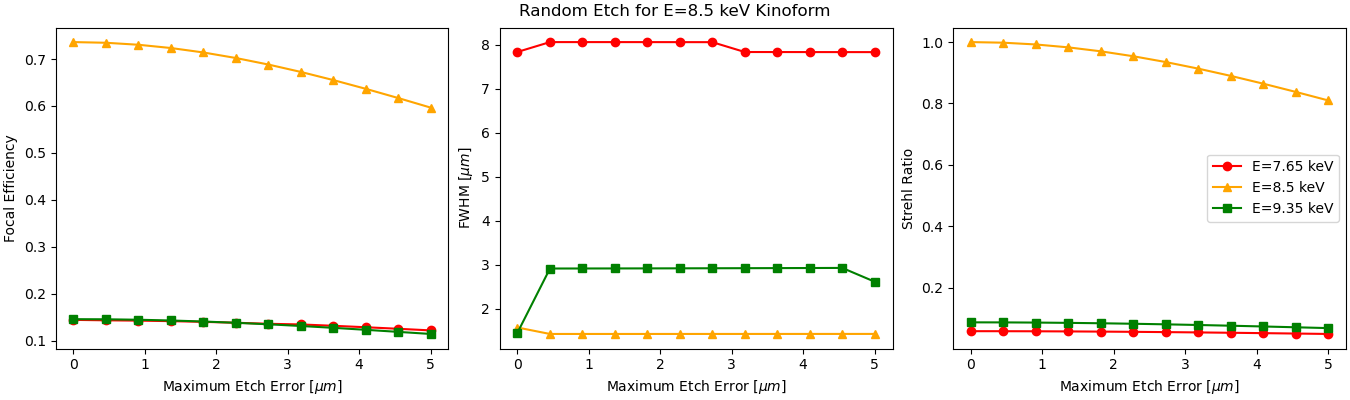
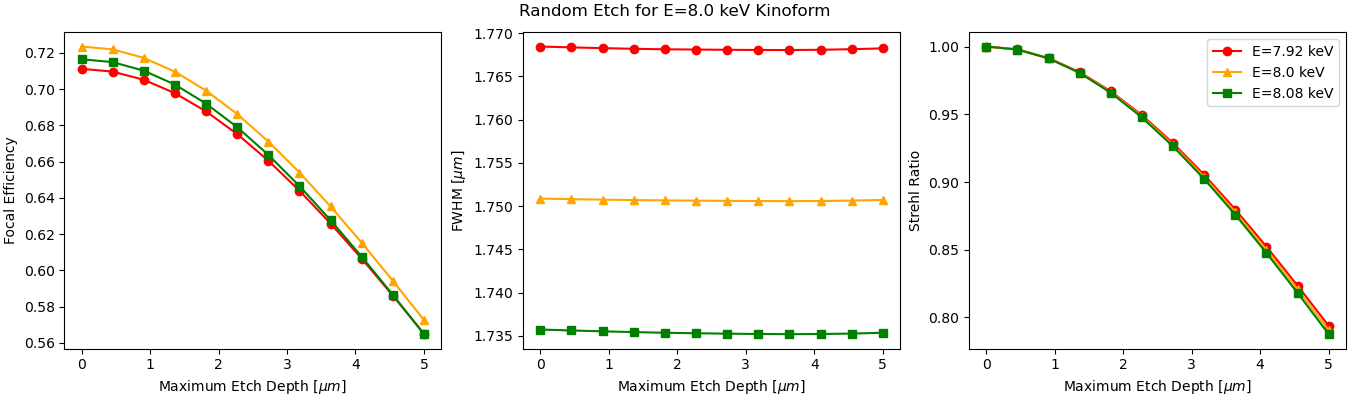
fixes

diff --git a/optics/metrics/error_metrics.py b/optics/metrics/error_metrics.py
@@ -46,15 +46,11 @@ def etch_error_metrics(source_factory, lens_factory, propagator, error_func, swe
     # mag_name = _error_magnitude_param(error_func)
     err_values = np.asarray(list(err_values), dtype=float)
 
-    # Reference (no-error) focal wave for Strehl normalization
-    ref_source = source_factory()
-    ref_lens = lens_factory(ref_source)
-    ref_lens.init_transmittance(ref_source)
-    ref_lens.transform(ref_source)
-    ref_source.propagate(ref_lens.f, propagator)
+    # Design-energy reference (used only to fix the lens wavelength)
+    design_source = source_factory()
 
     results = []
-    if E_range is None: E_range = [ref_source.energy]
+    if E_range is None: E_range = [design_source.energy]
 
     for E_off in E_range:
         print("="*50)
@@ -63,10 +59,19 @@ def etch_error_metrics(source_factory, lens_factory, propagator, error_func, swe
         fwhm  = np.zeros_like(err_values)
         strehl = np.zeros_like(err_values)
 
+        # Per-energy ideal reference: design-wavelength lens, no errors,
+        # illuminated by an off-energy source. Defines Strehl=1 at err=0.
+        ref_source = source_factory(E=E_off)
+        ref_lens = lens_factory(ref_source, wavelength=design_source.wavelength)
+        ref_source.filter(ref_lens)
+        ref_lens.init_transmittance(ref_source)
+        ref_lens.transform(ref_source)
+        ref_source.propagate(ref_lens.f, propagator)
+
         for i, e in enumerate(err_values):
             source = source_factory(E=E_off)
-            ## create reference source lens for comparison
-            lens = lens_factory(source, wavelength=ref_source.wavelength)
+            ## lens designed for the design energy, illuminated at E_off
+            lens = lens_factory(source, wavelength=design_source.wavelength)
             source.filter(lens)
             P_in = total_power(source)
             
@@ -116,15 +121,11 @@ def taper_metrics(source_factory, lens_factory, propagator, error_func, sweep_pa
     error_kwargs = dict(error_kwargs or {})
     err_values = np.asarray(list(err_values), dtype=float)
 
-    # Reference (no-error) focal wave for Strehl normalization
-    ref_source = source_factory()
-    ref_lens = lens_factory(ref_source)
-    ref_lens.init_transmittance(ref_source)
-    ref_lens.transform(ref_source)
-    ref_source.propagate(ref_lens.f, propagator)
+    # Design-energy reference (used only to fix the lens wavelength)
+    design_source = source_factory()
 
     results = []
-    if E_range is None: E_range = [ref_source.energy]
+    if E_range is None: E_range = [design_source.energy]
 
     for E_off in E_range:
         print("="*50)
@@ -132,10 +133,19 @@ def taper_metrics(source_factory, lens_factory, propagator, error_func, sweep_pa
         P_eff = np.zeros_like(err_values)
         strehl = np.zeros_like(err_values)
 
+        # Per-energy ideal reference: design-wavelength lens, no errors,
+        # illuminated by an off-energy source. Defines Strehl=1 at err=0.
+        ref_source = source_factory(E=E_off)
+        ref_lens = lens_factory(ref_source, wavelength=design_source.wavelength)
+        ref_source.filter(ref_lens)
+        ref_lens.init_transmittance(ref_source)
+        ref_lens.transform(ref_source)
+        ref_source.propagate(ref_lens.f, propagator)
+
         for i, e in enumerate(err_values):
             source = source_factory(E=E_off)
-            ## create reference source lens for comparison
-            lens = lens_factory(source, wavelength=ref_source.wavelength)
+            ## lens designed for the design energy, illuminated at E_off
+            lens = lens_factory(source, wavelength=design_source.wavelength)
             source.filter(lens)
             P_in = total_power(source)
             
@@ -207,7 +217,7 @@ def plot_sweep(err, vals, labels, savepath):
 def main():
     Lx, Lz, N = 1.5e-4, 10000, 1024
     # SIM = {"Lx": Lx, "Ly": Lx, "Nx": N, "Ny": N, "Lz": Lz}
-    E, f, R = 8.5e3, 1.0, 5e-5
+    E, f, R = 8.e3, 1.0, 5e-5
     dim = 2
     
     n = xrl.Refractive_Index("Si", E / 1000, 2.329)
@@ -229,7 +239,7 @@ def main():
     ref_source = source_factory()
     ref_lens = lens_factory(ref_source)
         
-    E_range = np.linspace(0.9*E, 1.1*E, 3)
+    E_range = np.linspace(0.99*E, 1.01*E, 3)
     n_metrics = 3
     
     # Random etch error

diff --git a/optics/metrics/metrics.py b/optics/metrics/metrics.py
@@ -21,44 +21,31 @@ def FWHM(wave: Waveform):
         # Take the right side of the peak (or left, doesn't matter for symmetric)
         right = I[peak_idx:]
         x_right = X[peak_idx:]
-
-        # Interpolate to find half-max crossing
-        # Find first crossing below half-max
-        cross_idx = np.where(right <= I_half)[0]
-        if len(cross_idx) == 0:
-            return np.nan
-        j = cross_idx[0]
-
-        # Linear interpolation between j-1 and j
-        r_half = np.interp(I_half, 
-                           [right[j], right[j-1]],  # reversed: decreasing I
-                           [x_right[j], x_right[j-1]])
-        return 2 * abs(r_half - x_peak)
-
     else:
         X, Y = wave.grid
         peak_idx = np.unravel_index(np.argmax(I), I.shape)
         x_peak = X[peak_idx]
-        y_peak = Y[peak_idx]
 
-        # Extract a 1D slice through the peak (e.g., horizontal)
+        # Extract a 1D horizontal slice through the peak
         row = I[peak_idx[0], :]
         x_row = X[peak_idx[0], :]
 
-        # Right side of peak
         j_peak = peak_idx[1]
         right = row[j_peak:]
         x_right = x_row[j_peak:]
 
-        cross_idx = np.where(right <= I_half)[0]
-        if len(cross_idx) == 0:
-            return np.nan
-        j = cross_idx[0]
+    # Find first crossing at/below half-max
+    cross_idx = np.where(right <= I_half)[0]
+    if len(cross_idx) == 0 or cross_idx[0] == 0:
+        return np.nan
+    j = cross_idx[0]
 
-        r_half = np.interp(I_half,
-                           [right[j], right[j-1]],
-                           [x_right[j], x_right[j-1]])
-        return 2 * abs(r_half - x_right[0])
+    # Linear interpolation between samples j-1 (above) and j (below) half-max.
+    # `right` is decreasing here, so we can't use np.interp directly.
+    y0, y1 = right[j-1], right[j]
+    x0, x1 = x_right[j-1], x_right[j]
+    r_half = x0 + (I_half - y0) * (x1 - x0) / (y1 - y0)
+    return 2 * abs(r_half - x_peak)
 
 def intensity_stats(wave: Waveform):
     '''
@@ -71,9 +58,7 @@ def intensity_stats(wave: Waveform):
     '''
     I = wave.intensity()
     I_max = np.max(I)
-    
-    mask = I != 0
-    I_avg = np.mean(I[mask])
+    I_avg = np.mean(I)
     
     return I_max, I_avg
 
@@ -103,7 +88,8 @@ def focal_power(wave: Waveform, radius):
     if wave.dim == 1:
         X = wave.grid
         
-        xc = np.argmax(I)
+        peak = np.argmax(I)
+        xc = X[peak]
         R = np.abs(X-xc)
         
         I_masked = np.where(R <= radius, I, 0.0)

diff --git a/optics/basic_test_cases/lens_test.py b/optics/basic_test_cases/lens_test.py
@@ -131,10 +131,10 @@ def test_standard_lens_2D():
 def test_lens_xray():
     print("Testing Parabolic Lens (X-ray)...")
     Lx, Ly, Lz = 1.5e-4, 1.5e-4, 10000
-    N = 5000
+    N = 1024
 
     # parameters for simulation
-    E = 8.5e3       # eV
+    E = 8.e3       # eV
     f = 1.          # m
     R = 5e-5
     n = xrl.Refractive_Index("Si", E/1000, 2.329)
@@ -202,7 +202,7 @@ def test_kinoform():
     N = 1024
 
     # parameters for simulation
-    E = 8.5e3       # eV
+    E = 8.e3       # eV
     f = 1.          # m
     R = 5e-5
     n = xrl.Refractive_Index("Si", E/1000, 2.329)
@@ -263,8 +263,8 @@ def test_kinoform():
     plt.savefig(os.path.join(savedir, "Kinoform_Lens"))
 
 if __name__ == "__main__":
-    # test_standard_lens_2D()
-    # test_standard_lens_1D()
-    # test_lens_xray()
+    test_standard_lens_2D()
+    test_standard_lens_1D()
+    test_lens_xray()
     test_kinoform()
     

diff --git a/optics/classes/lens_classes.py b/optics/classes/lens_classes.py
@@ -210,7 +210,8 @@ class LensErrors():
             X, Y = lens.grid
             r_squared = X**2+Y**2
        
-        distribution = 1/np.sqrt(2*const.pi*sigma**2)*np.exp(-r_squared/(2*sigma**2))
+        distribution = np.exp(-r_squared/(2*sigma**2))
+        if invert: distribution = 1.-distribution
         err = rng.uniform(low=-max_err, high=max_err, size=np.shape(lens.profile))
         errors = distribution*err
         

diff --git a/optics/basic_test_cases/error_test.py b/optics/basic_test_cases/error_test.py
@@ -113,9 +113,9 @@ def test_kinoform_taper(proportion):
     print(f"Saved etched kinoform profile to {out}.")
     
 if __name__ == "__main__":
-    # max_err = 4e-7
-    # test_kinoform_etch(max_err)
-    # test_kinoform_random_etch(max_err)
+    max_err = 4e-7
+    test_kinoform_etch(max_err)
+    test_kinoform_random_etch(max_err)
     
     taper_proportion = 0.5
     test_kinoform_taper(taper_proportion)
